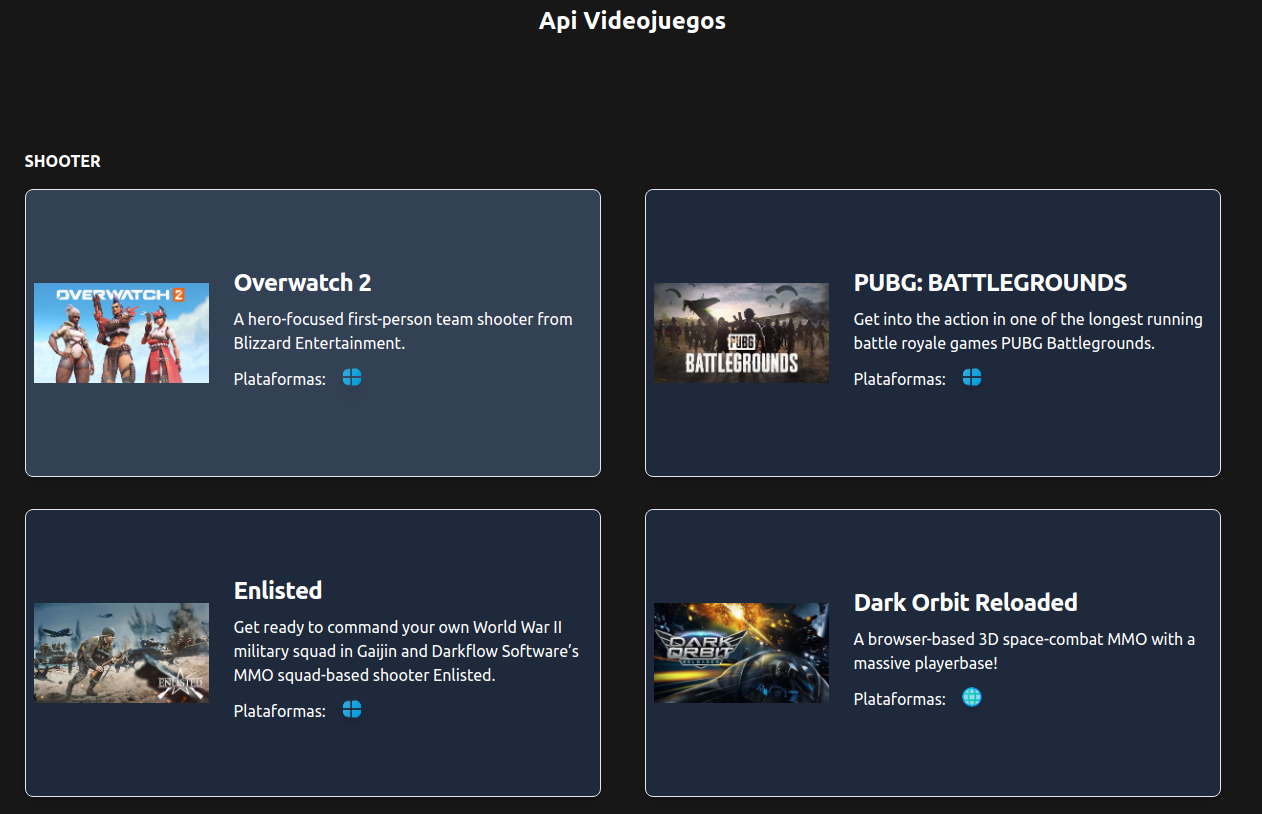
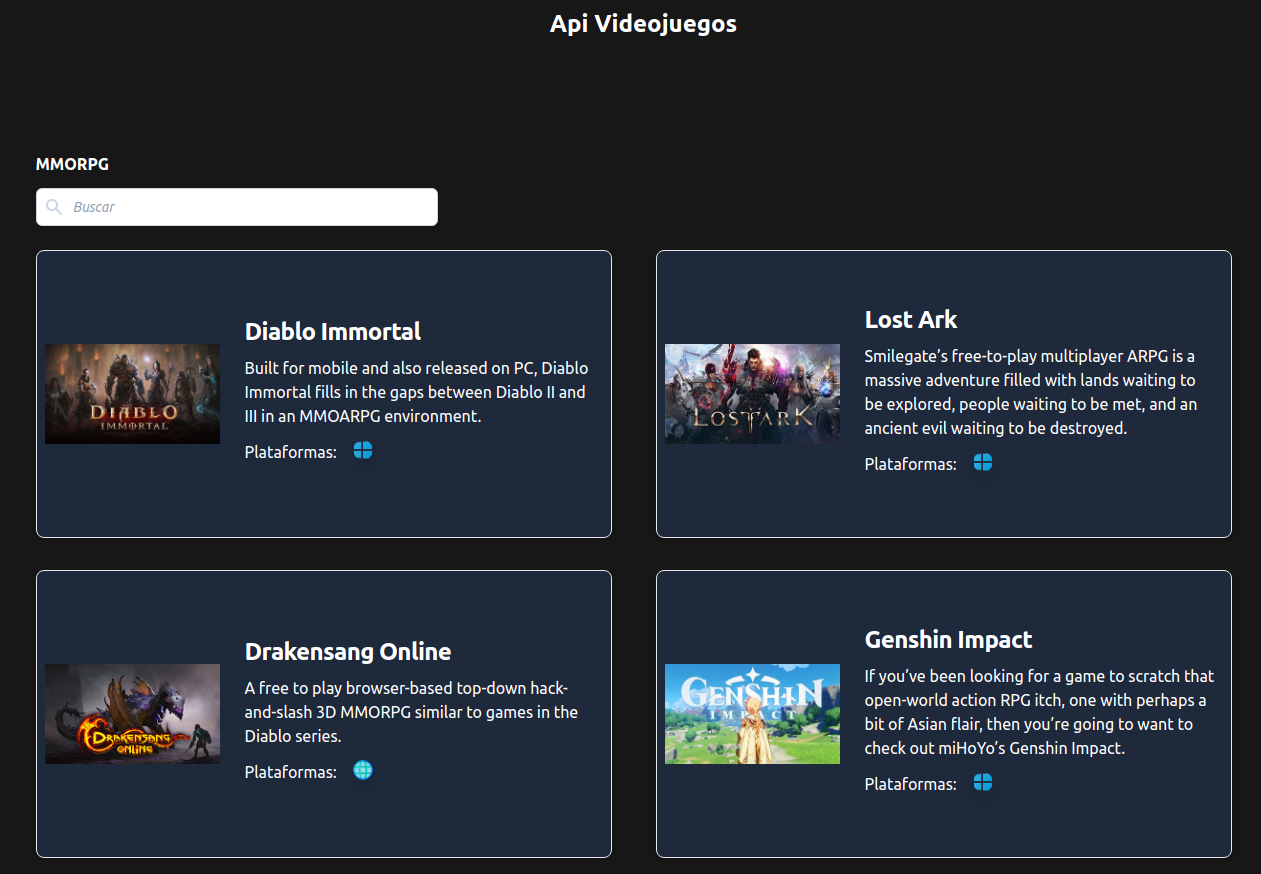
Se implementa el buscar

diff --git a/frontend-games/src/app/modules/juegos/lista/lista.component.html b/frontend-games/src/app/modules/juegos/lista/lista.component.html
@@ -1,16 +1,30 @@
 
 <p class="mr-6 font-bold text-white">{{categoria}}</p>
+
+<div class="lg:grid lg:grid-cols-3 lg:gap-x-1 lg:space-y-0 mt-3 mb-2">
+    <label class="relative block">
+        <span class="sr-only">Buscar</span>
+        <span class="absolute inset-y-0 left-0 flex items-center pl-2">
+            <svg class="h-5 w-5 fill-slate-300" viewBox="0 0 20 20">
+                <path fill-rule="evenodd" d="M8 4a4 4 0 100 8 4 4 0 000-8zM2 8a6 6 0 1110.89 3.476l4.817 4.817a1 1 0 01-1.414 1.414l-4.816-4.816A6 6 0 012 8z" clip-rule="evenodd"></path>
+            </svg>
+        </span>
+        <input class="placeholder:italic placeholder:text-slate-400 block bg-white w-full border border-slate-300 rounded-md py-2 pl-9 pr-3 shadow-sm focus:outline-none focus:border-sky-500 focus:ring-sky-500 focus:ring-1 sm:text-sm" placeholder="Buscar" type="text" name="search" [(ngModel)]="searchText"/>
+    </label>
+</div>
+
 <div class="text-center" *ngIf="loading">
     <div role="status">
         <svg aria-hidden="true" class="inline w-10 h-10 mr-2 text-gray-200 animate-spin dark:text-gray-600 fill-blue-600" viewBox="0 0 100 101" fill="none" xmlns="http://www.w3.org/2000/svg">
             <path d="M100 50.5908C100 78.2051 77.6142 100.591 50 100.591C22.3858 100.591 0 78.2051 0 50.5908C0 22.9766 22.3858 0.59082 50 0.59082C77.6142 0.59082 100 22.9766 100 50.5908ZM9.08144 50.5908C9.08144 73.1895 27.4013 91.5094 50 91.5094C72.5987 91.5094 90.9186 73.1895 90.9186 50.5908C90.9186 27.9921 72.5987 9.67226 50 9.67226C27.4013 9.67226 9.08144 27.9921 9.08144 50.5908Z" fill="currentColor"/>
             <path d="M93.9676 39.0409C96.393 38.4038 97.8624 35.9116 97.0079 33.5539C95.2932 28.8227 92.871 24.3692 89.8167 20.348C85.8452 15.1192 80.8826 10.7238 75.2124 7.41289C69.5422 4.10194 63.2754 1.94025 56.7698 1.05124C51.7666 0.367541 46.6976 0.446843 41.7345 1.27873C39.2613 1.69328 37.813 4.19778 38.4501 6.62326C39.0873 9.04874 41.5694 10.4717 44.0505 10.1071C47.8511 9.54855 51.7191 9.52689 55.5402 10.0491C60.8642 10.7766 65.9928 12.5457 70.6331 15.2552C75.2735 17.9648 79.3347 21.5619 82.5849 25.841C84.9175 28.9121 86.7997 32.2913 88.1811 35.8758C89.083 38.2158 91.5421 39.6781 93.9676 39.0409Z" fill="currentFill"/>
         </svg>
-        <span class="sr-only">Loading...</span>
+        <span class="sr-only">Cargando...</span>
     </div>
 </div>
+
 <div class="lg:grid lg:grid-cols-2 lg:gap-x-6 lg:space-y-0">
-    <div class="group relative py-4" *ngFor="let juego of juegos">
+    <div class="group relative py-4" *ngFor="let juego of juegos | search: searchText">
         <div class="flex flex-col items-center bg-slate-800 border rounded-lg shadow-md md:flex-row md:max-w-xl hover:bg-slate-700 dark:border-gray-700 dark:bg-gray-800 dark:hover:bg-gray-700 m:aspect-w-2 sm:aspect-h-1 sm:h-72 ">
             <img class="object-cover w-full rounded-t-lg h-96 md:h-auto md:w-48 md:rounded-none md:rounded-l-lg p-2" src="{{juego.thumbnail}}" alt="">
             <div class="flex flex-col justify-between p-4 leading-normal">

diff --git a/frontend-games/src/app/modules/juegos/lista/lista.component.ts b/frontend-games/src/app/modules/juegos/lista/lista.component.ts
@@ -3,11 +3,13 @@ import { CommonModule } from '@angular/common';
 import { ActivatedRoute } from '@angular/router';
 import { ListaService } from '../services/lista.service';
 import { PlatformPipe } from 'src/app/pipes/platform.pipe';
+import { SearchPipe } from 'src/app/pipes/search.pipe';
+import { FormsModule } from '@angular/forms';
 
 @Component({
   selector: 'app-lista',
   standalone: true,
-  imports: [CommonModule,PlatformPipe],
+  imports: [CommonModule,PlatformPipe,SearchPipe,FormsModule],
   templateUrl: './lista.component.html',
   styleUrls: ['./lista.component.css'],
   providers: [ListaService ]
@@ -17,6 +19,7 @@ export class ListaComponent implements OnInit {
   public categoria: string | undefined ;
   public juegos: any = [];
   public loading: boolean = false;
+  public searchText: string = '';
 
   constructor(
     private activatedRoute: ActivatedRoute,

diff --git a/frontend-games/src/app/pipes/search.pipe.ts b/frontend-games/src/app/pipes/search.pipe.ts
@@ -1,0 +1,21 @@
+import { Pipe, PipeTransform } from '@angular/core';
+
+@Pipe({
+  name: 'search',
+  standalone: true
+})
+export class SearchPipe implements PipeTransform {
+
+  transform(value: any, args?: any): any {
+    if(!value) return null;
+    if(!args) return value;
+
+    args = args.toLowerCase();
+
+    return value.filter((item: any) => {
+      return JSON.stringify(item).toLowerCase().includes(args);
+    })
+
+  }
+
+}
